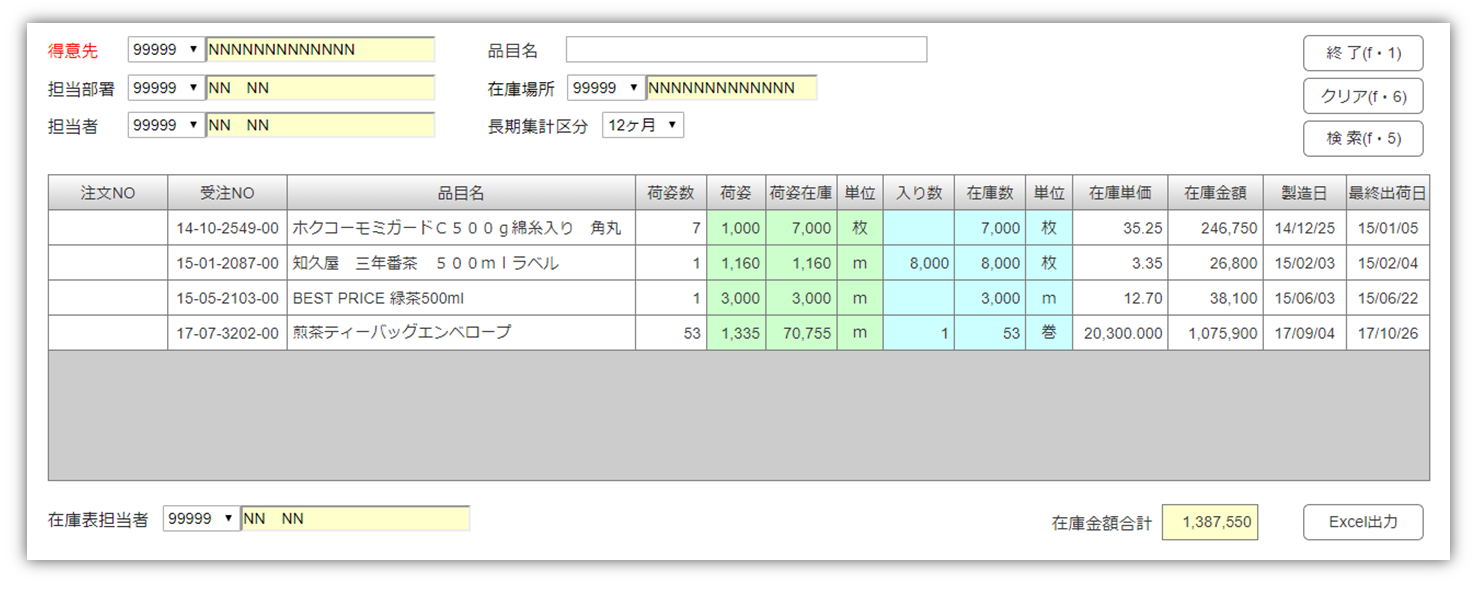
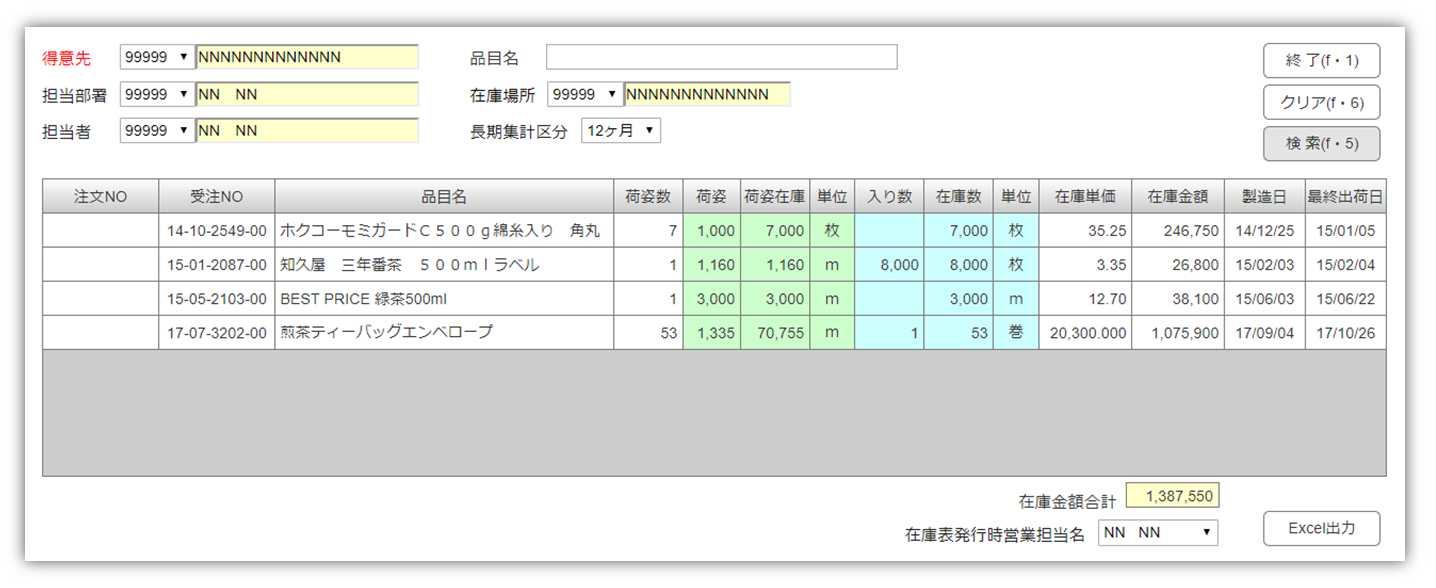
[change]指摘事項修正

diff --git a/在庫表改善/在庫表改善.md b/在庫表改善/在庫表改善.md
@@ -43,16 +43,21 @@ ebook:
 **検索条件**
 * 得意先（必須）
 * 担当部署
+  ディフォルト値はログインユーザーの部署です。
 * 担当者
+ ディフォルト値がログインユーザーです。
 * 品目名
 * 在庫場所
 * 長期集計区分
 ![在庫表発行](images/長期集計区分.png)
 
 **フッター部**
-* 在庫表担当者
-  在庫表に印字する担当者名です。 ディフォルトとして、ログインしているユーザーを設定しております。　
+* 在庫表発行時営業担当者
+  在庫表に印字する担当者名です。 ディフォルトとして、ログインしているユーザーを設定しております。
+
 ![在庫表発行](images/在庫表担当者.png)
+
+![在庫表発行](images/担当者の連動.png)
 
 * 在庫金額合計
 ![在庫表発行](images/在庫金額合計.png)
